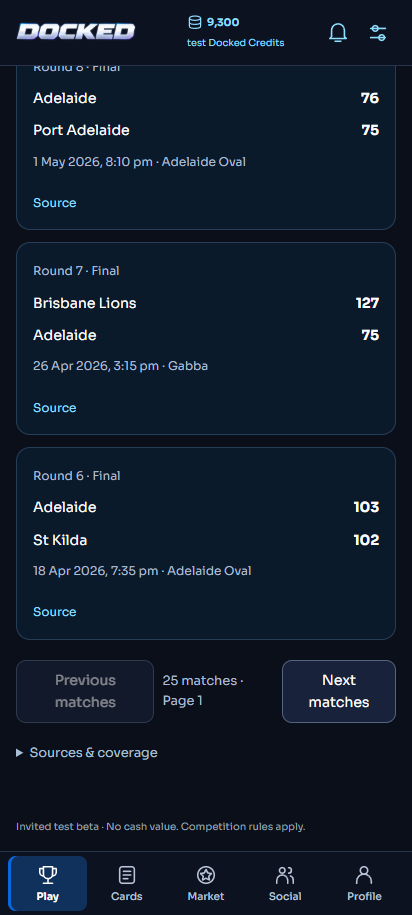
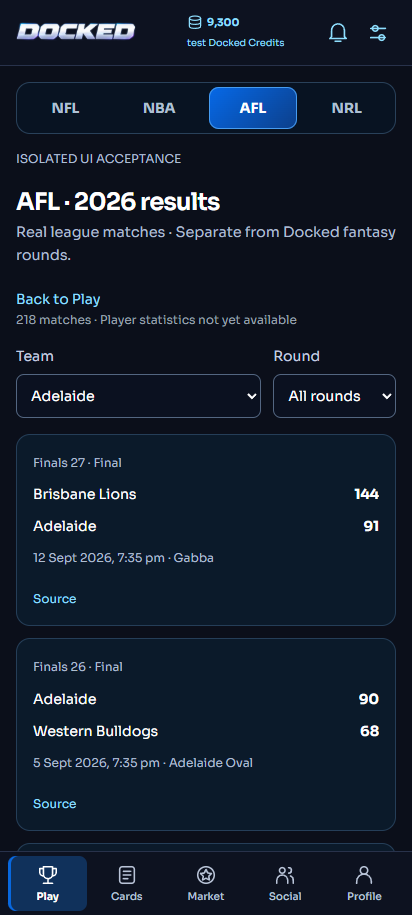
Polish history headings and verify signed-out Social response contract

diff --git a/scripts/global-sport-browser.ts b/scripts/global-sport-browser.ts
@@ -325,6 +325,7 @@ async function main() {
           ),
           false,
         );
+        await page.getByRole("heading", { level: 1 }).scrollIntoViewIfNeeded();
         await page.screenshot({
           path: `${out}/${sport}-history-${width}.png`,
           fullPage: false,

diff --git a/src/app/owned-collection.css b/src/app/owned-collection.css
@@ -65,6 +65,11 @@
   grid-template-columns: repeat(2, minmax(0, 1fr));
   gap: 12px;
 }
+.historical-matches h1 {
+  font-size: clamp(1.5rem, 3vw, 2rem);
+  letter-spacing: -0.03em;
+  margin: 0 0 0.5rem;
+}
 .historical-match {
   background: #0b1a2a;
   border: 1px solid #253e58;
